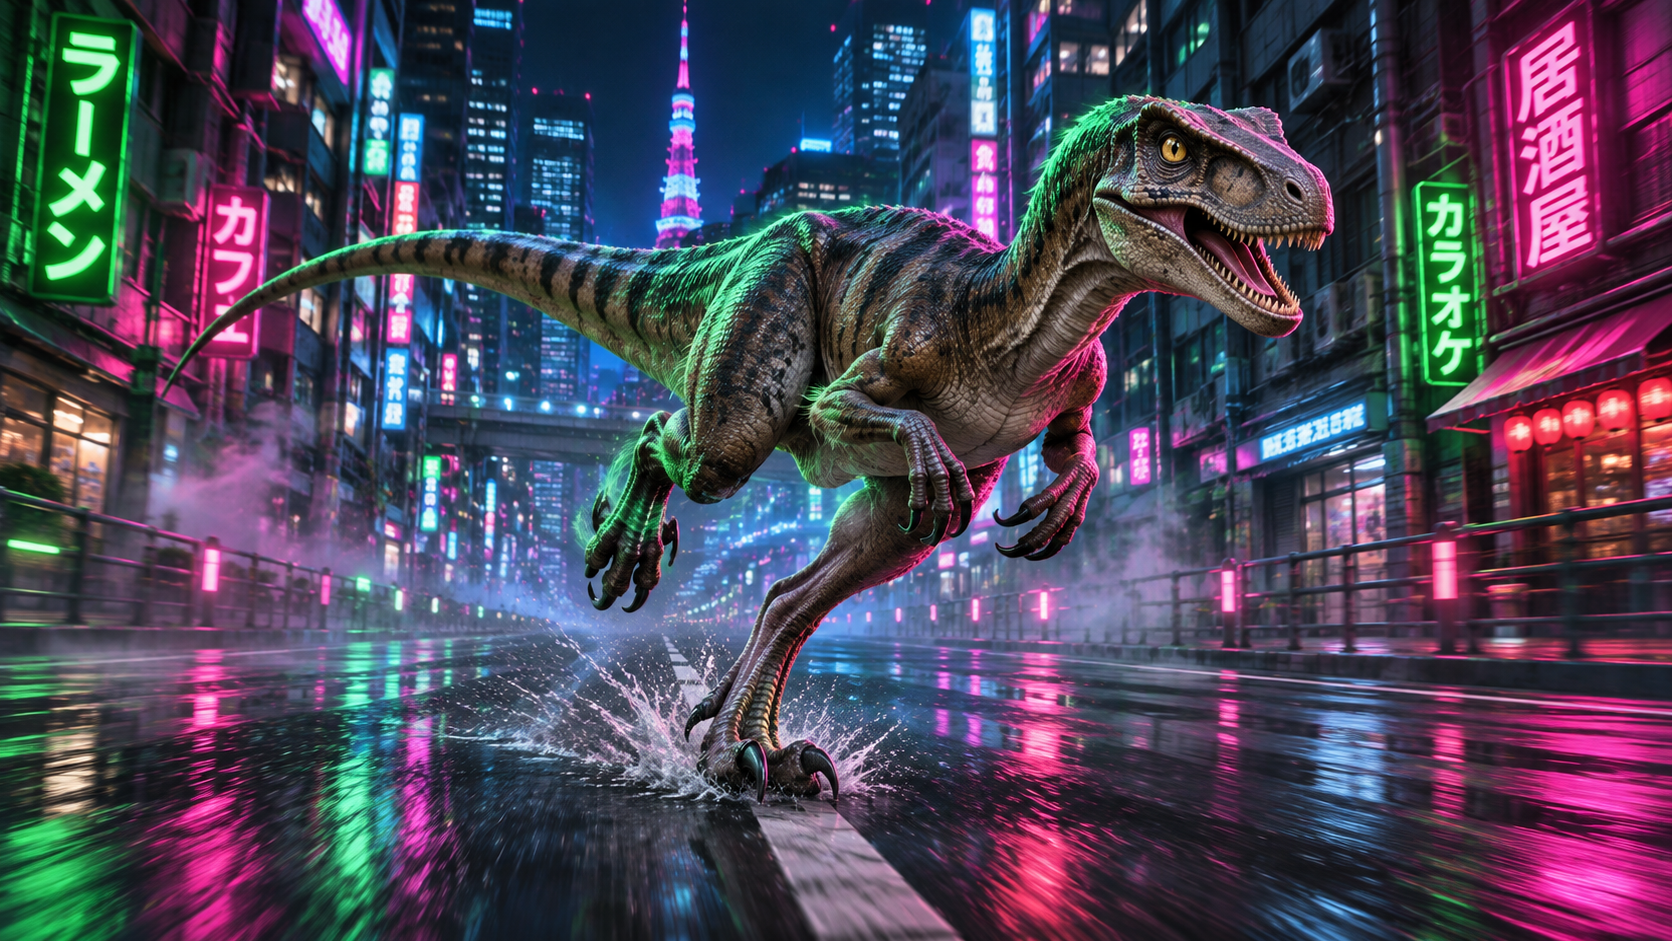
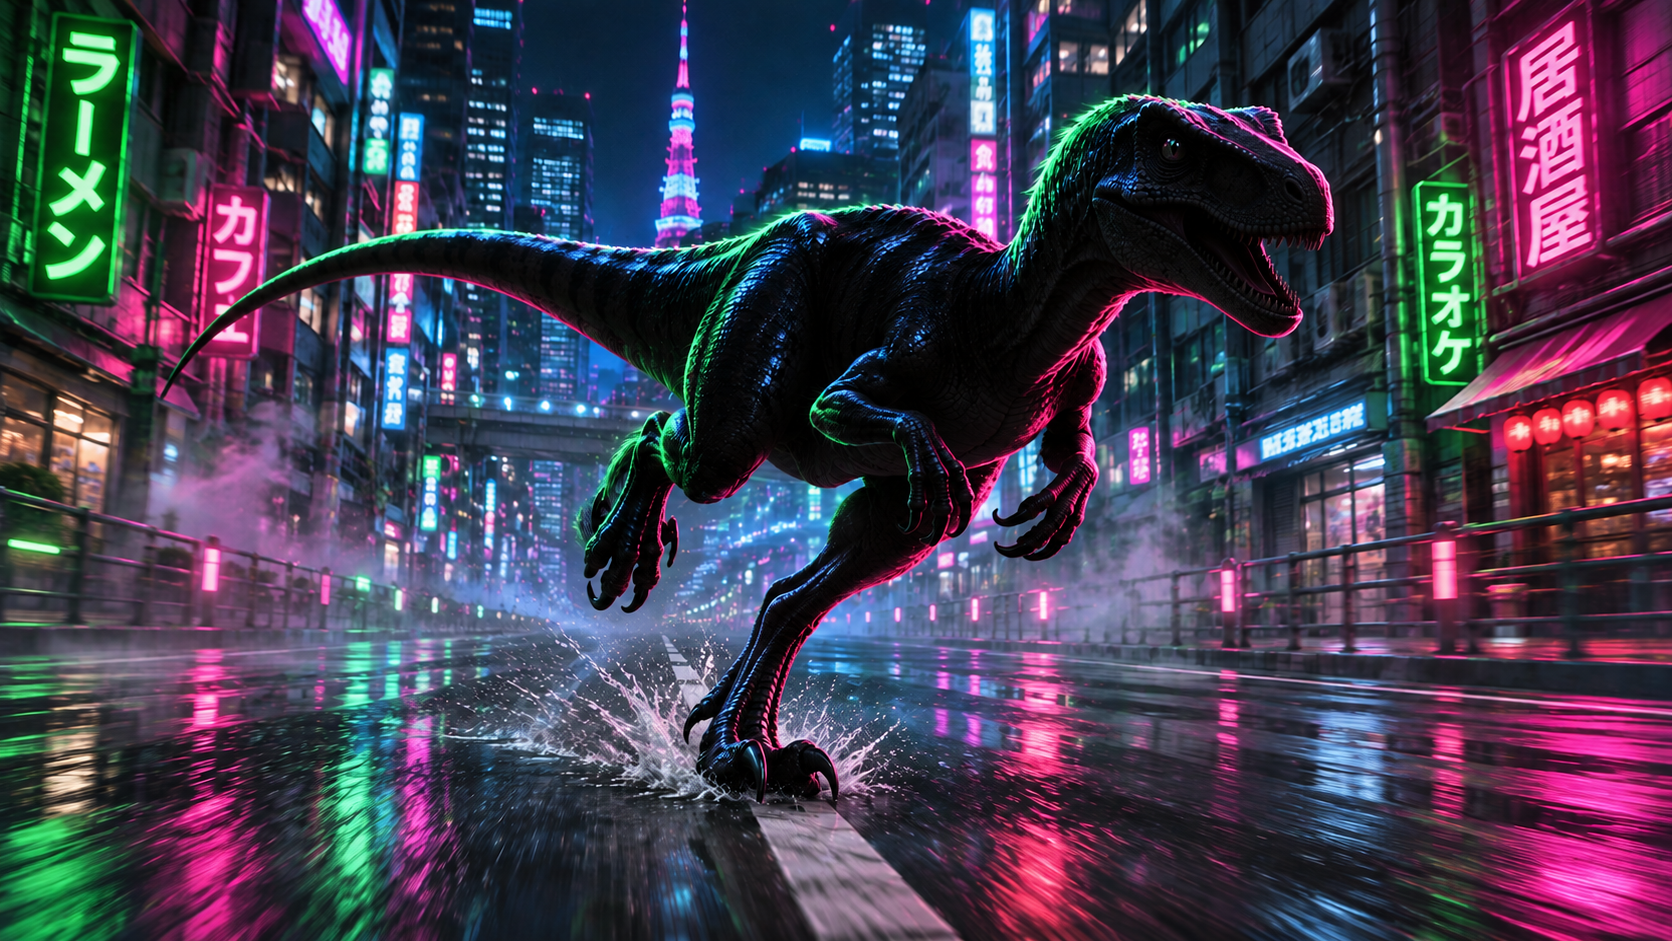
Darken README raptor with reflected neon lighting

diff --git a/README.md b/README.md
@@ -8,7 +8,7 @@
 </p>
 
 <p align="center">
-  <img width="960" alt="A velociraptor sprinting down a neon-lit, Tokyo-inspired cyberpunk street at night" src="assets/branding/velociraptor-cyberpunk.png" />
+  <img width="960" alt="A nearly silhouetted velociraptor with neon reflections sprinting down a Tokyo-inspired cyberpunk street at night" src="assets/branding/velociraptor-cyberpunk.png" />
 </p>
 
 > [!CAUTION]
